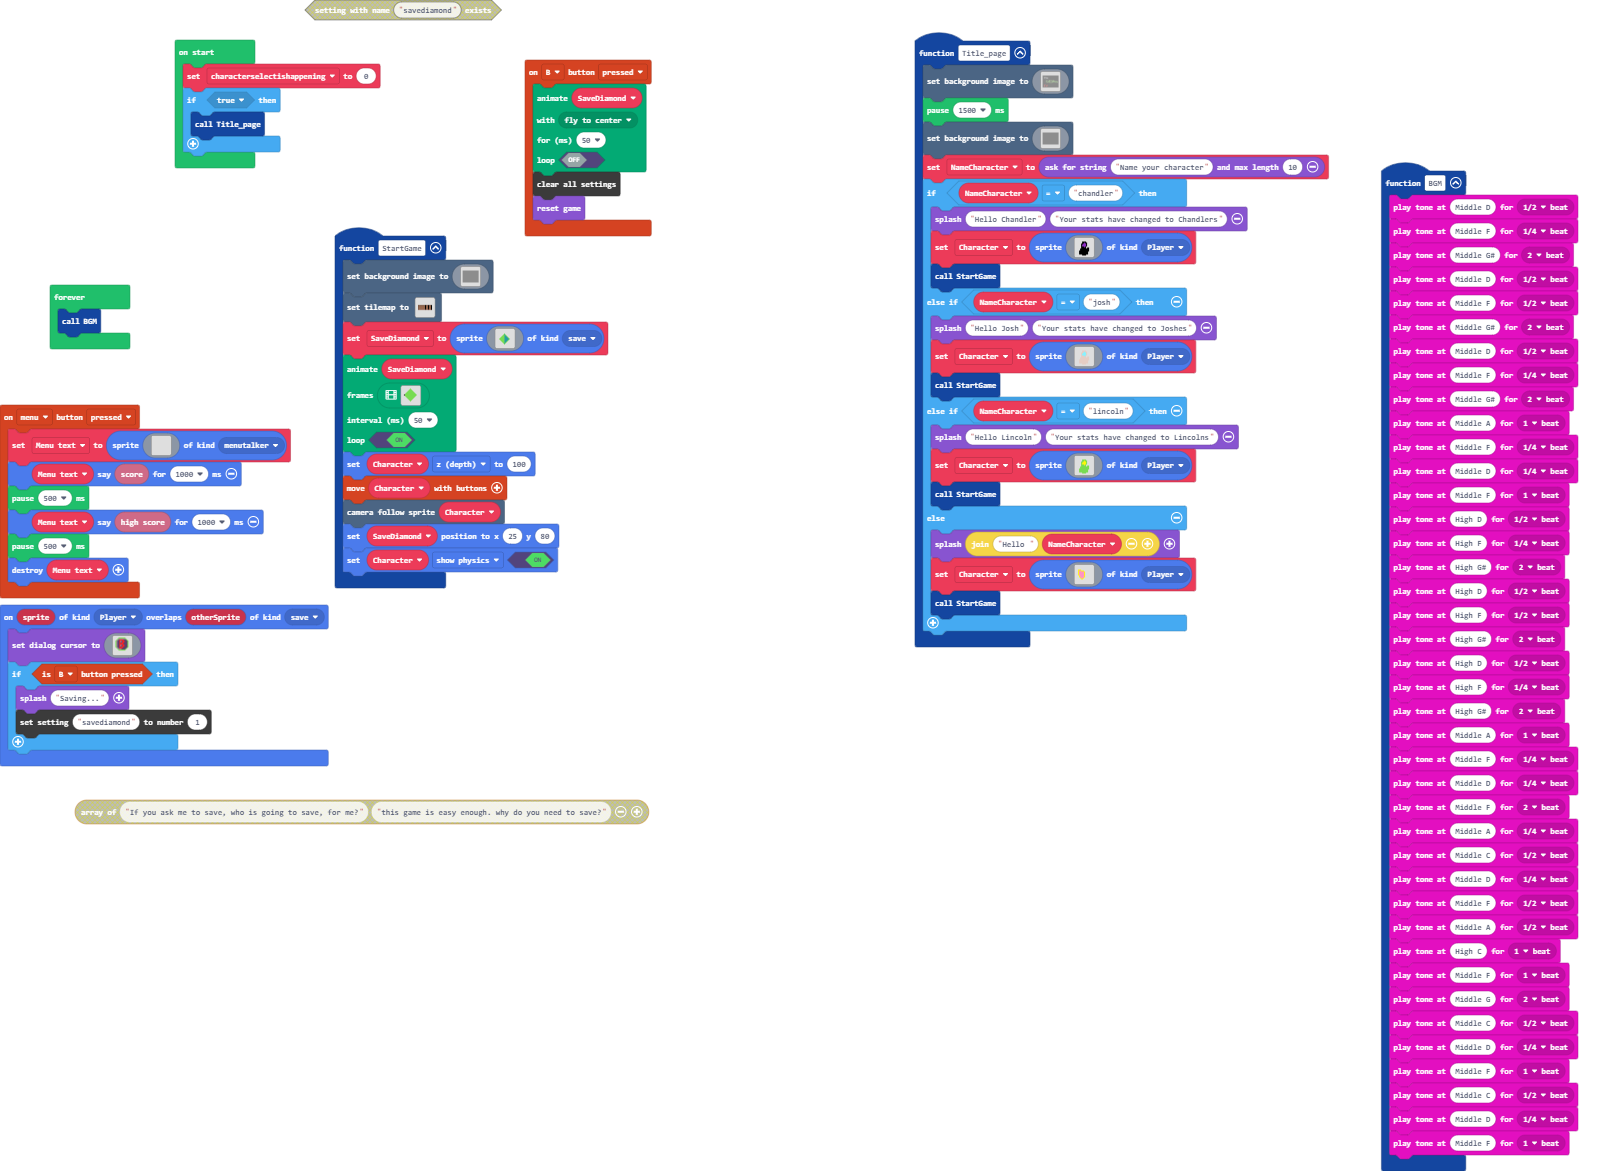
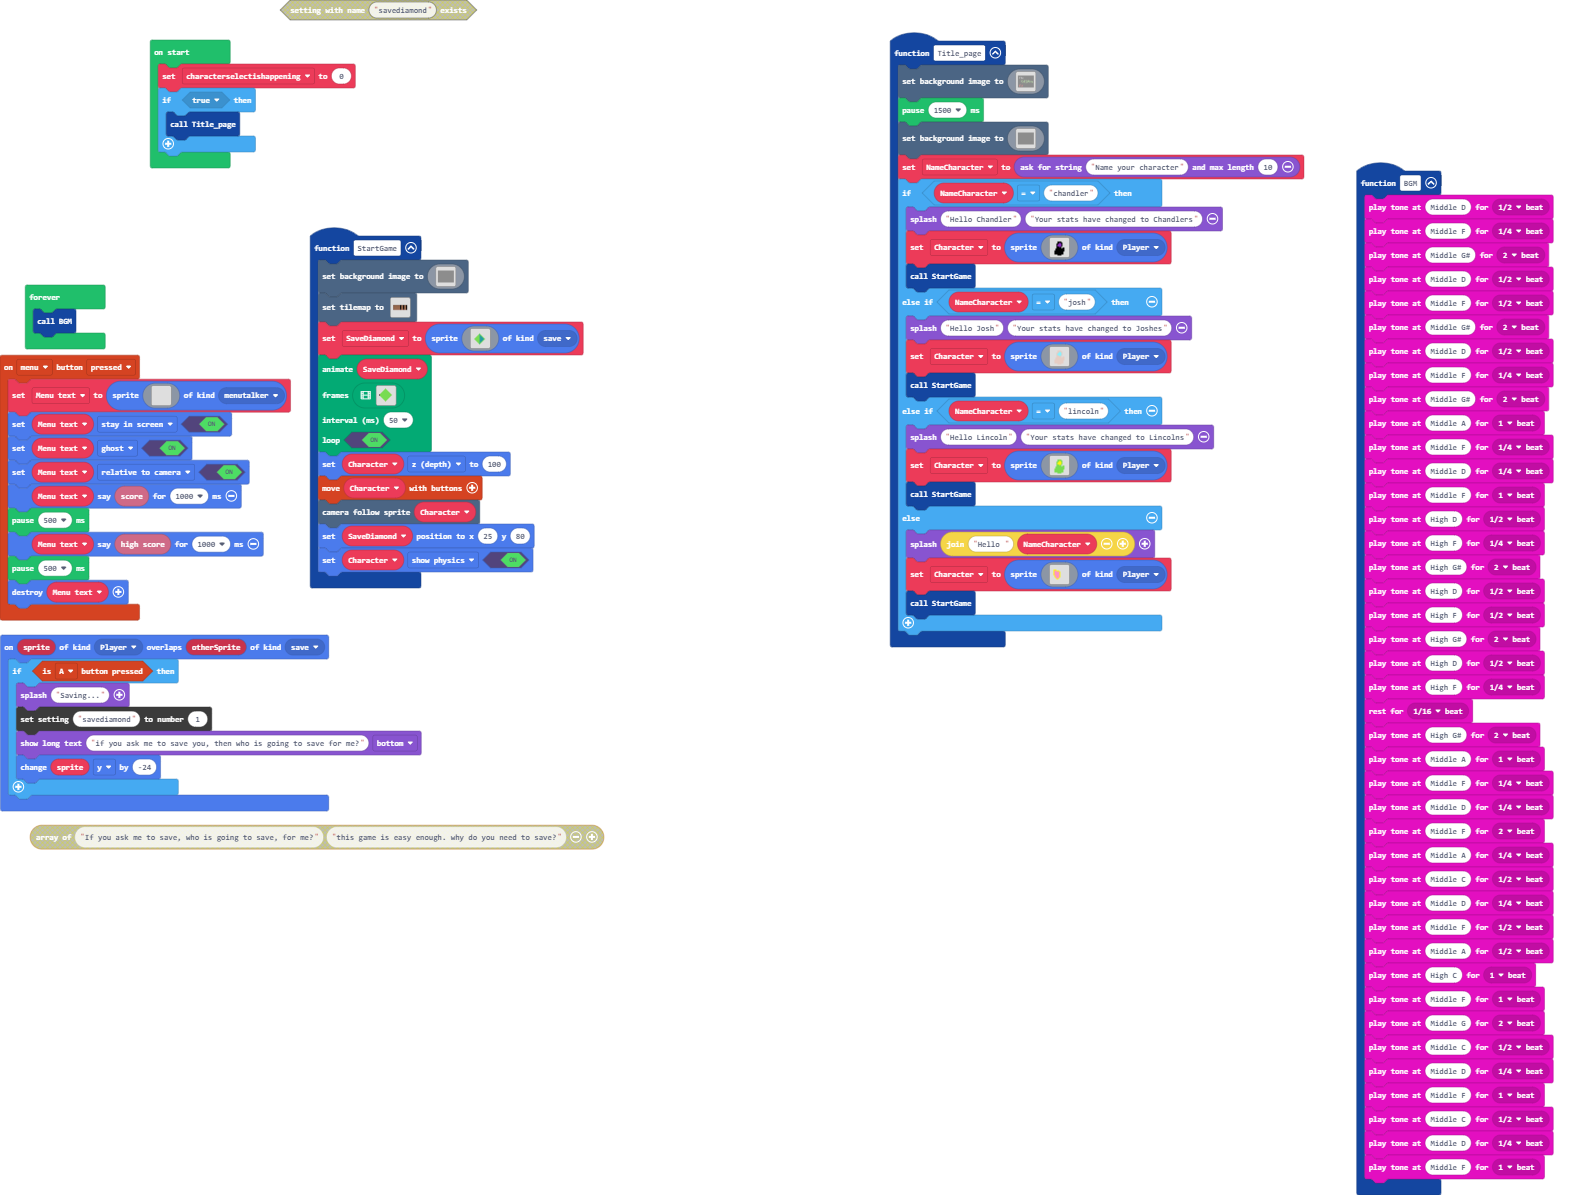
Update main.blocks, main.ts

diff --git a/main.ts b/main.ts
@@ -5,38 +5,12 @@ namespace SpriteKind {
     export const menutalker = SpriteKind.create()
 }
 sprites.onOverlap(SpriteKind.Player, SpriteKind.save, function (sprite, otherSprite) {
-    game.setDialogCursor(img`
-        . . . . 7 7 7 7 7 7 7 . . . . . 
-        . . . 7 b b b b b b b 7 . . . . 
-        . . 7 b c 2 2 2 2 c c c 7 . . . 
-        . 7 b c c 2 b c 2 2 c c c 7 . . 
-        . 7 b c c 2 b c 2 2 c c c 7 . . 
-        . 7 b c c 2 c 2 2 c c c c 7 . . 
-        . 7 b c c 2 2 2 2 c c c c 7 . . 
-        . 7 b c c 2 b c 2 2 c c c 7 . . 
-        . 7 b c c 2 b c 2 2 c c c 7 . . 
-        . 7 b c c 2 c 2 2 c c c c 7 . . 
-        . . 7 b c 2 2 2 c c c c 7 . . . 
-        . . . 7 b b b c c c c 7 . . . . 
-        . . . . 7 7 7 7 7 7 7 . . . . . 
-        . . . . . . . . . . . . . . . . 
-        . . . . . . . . . . . . . . . . 
-        . . . . . . . . . . . . . . . . 
-        `)
-    if (controller.B.isPressed()) {
+    if (controller.A.isPressed()) {
         game.splash("Saving...")
         blockSettings.writeNumber("savediamond", 1)
+        game.showLongText("if you ask me to save you, then who is going to save for me?", DialogLayout.Bottom)
+        sprite.y += -24
     }
-})
-controller.B.onEvent(ControllerButtonEvent.Pressed, function () {
-    animation.runMovementAnimation(
-    SaveDiamond,
-    animation.animationPresets(animation.flyToCenter),
-    50,
-    false
-    )
-    blockSettings.clear()
-    game.reset()
 })
 function BGM () {
     music.playTone(294, music.beat(BeatFraction.Half))
@@ -60,6 +34,7 @@ function BGM () {
     music.playTone(831, music.beat(BeatFraction.Double))
     music.playTone(587, music.beat(BeatFraction.Half))
     music.playTone(698, music.beat(BeatFraction.Quarter))
+    music.rest(music.beat(BeatFraction.Sixteenth))
     music.playTone(831, music.beat(BeatFraction.Double))
     music.playTone(440, music.beat(BeatFraction.Whole))
     music.playTone(349, music.beat(BeatFraction.Quarter))
@@ -432,6 +407,9 @@ controller.menu.onEvent(ControllerButtonEvent.Pressed, function () {
         . . . . . . . . . . . . . . . . 
         . . . . . . . . . . . . . . . . 
         `, SpriteKind.menutalker)
+    Menu_text.setFlag(SpriteFlag.StayInScreen, true)
+    Menu_text.setFlag(SpriteFlag.Ghost, true)
+    Menu_text.setFlag(SpriteFlag.RelativeToCamera, true)
     Menu_text.say(info.score(), 1000)
     pause(500)
     Menu_text.say(info.highScore(), 1000)
@@ -1484,10 +1462,10 @@ function StartGame () {
     SaveDiamond.setPosition(25, 80)
     Character.setFlag(SpriteFlag.ShowPhysics, true)
 }
+let SaveDiamond: Sprite = null
 let Menu_text: Sprite = null
 let Character: Sprite = null
 let NameCharacter = ""
-let SaveDiamond: Sprite = null
 let characterselectishappening = 0
 if (true) {
     Title_page()
